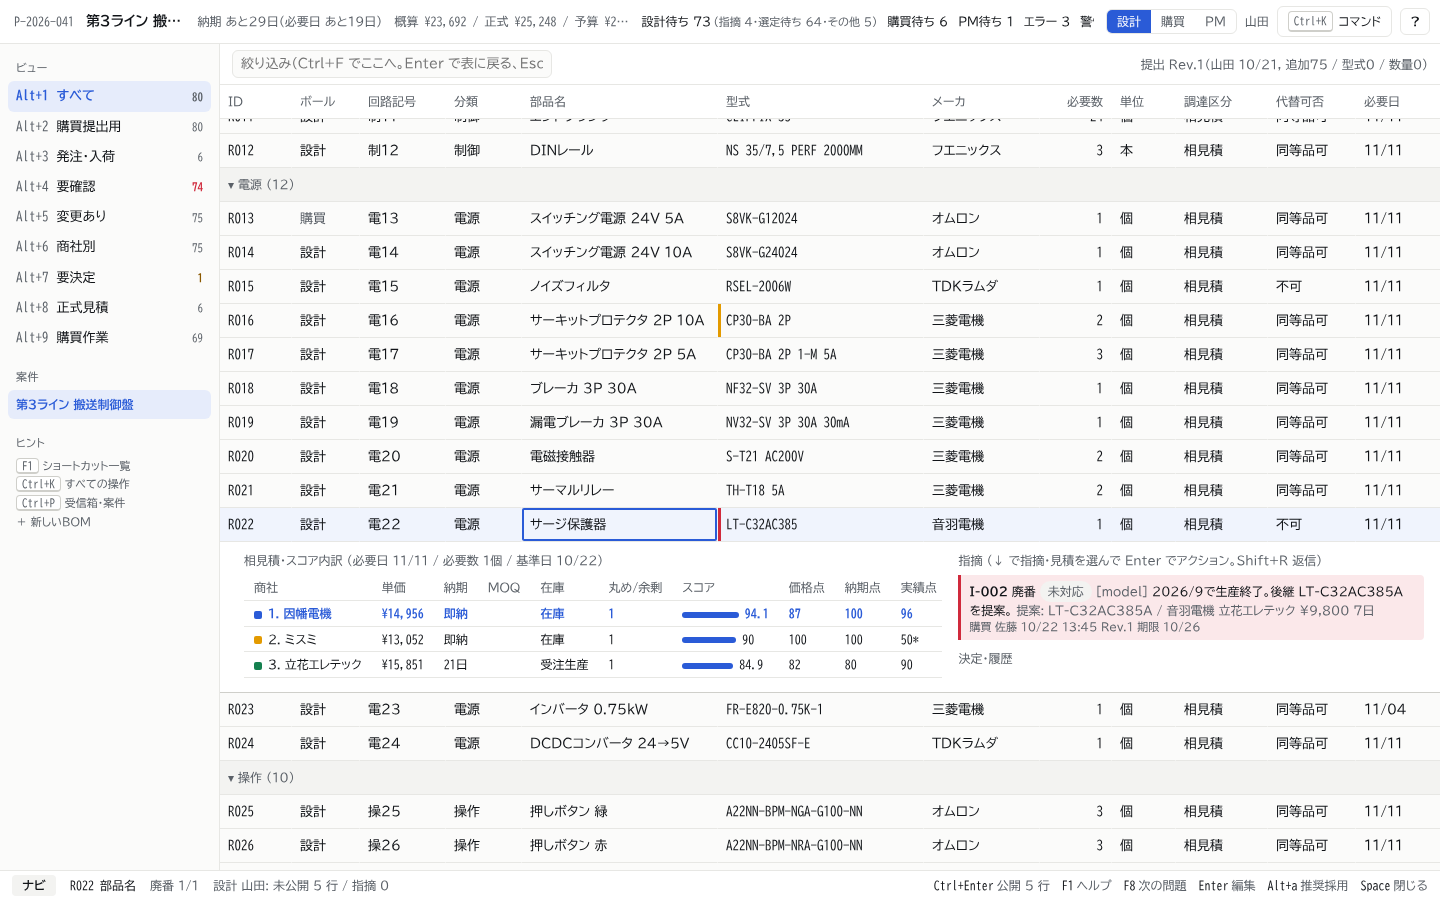
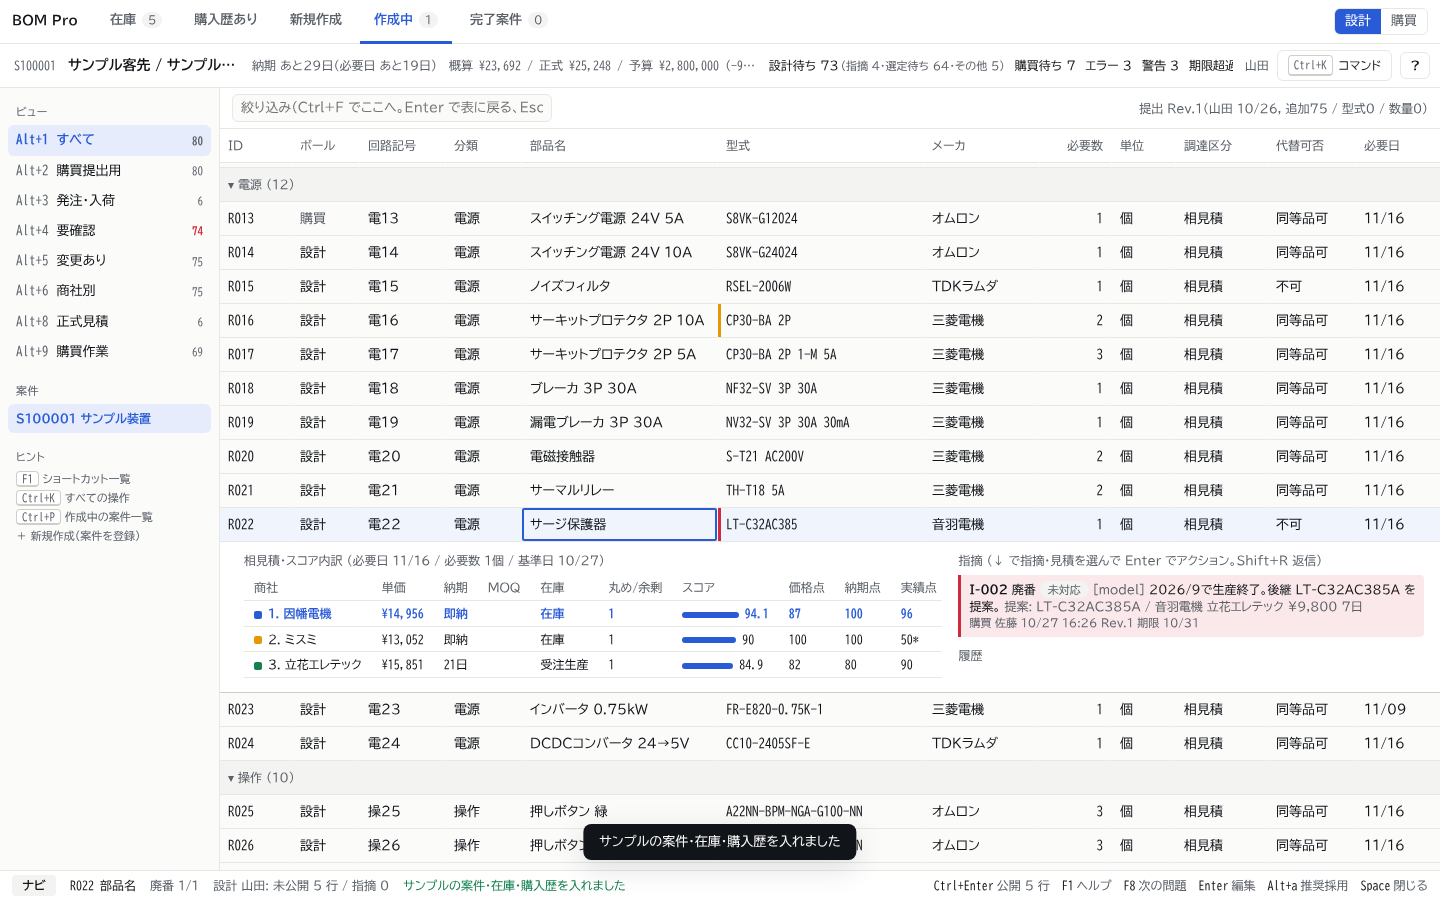
BOMに在庫・購入歴あり・新規作成・作成中・完了案件の画面を追加し、PM を全廃
- 上のタブで 在庫 / 購入歴あり / 新規作成 / 作成中 / 完了案件 を切り替え（空で開始、サンプル投入あり）
- 在庫・購入歴の部品をクリック → 数量 → 作成中の案件番号を選ぶと案件のリストに追加
- 案件登録は番号（A123456 形式）・客先・装置名。完了にすると完了案件へ
- PM の役割・画面・要決定ビュー・承認フロー・案件設定の確定を削除（変更セットは自動承認、納期NG は購買が x で受入）
- 開いた案件はリロードしても復元。E2E / 単体テストを更新、vite.config の型エラーを修正

Claude-Session: https://claude.ai/code/session_01VLU869jRMj6qD9nzBFt6MK

diff --git a/e2e/home.spec.ts b/e2e/home.spec.ts
@@ -1,0 +1,98 @@
+import { test, expect, type Page } from '@playwright/test'
+
+async function fresh(page: Page) {
+  await page.goto('/')
+  await page.evaluate(() => localStorage.clear())
+  await page.goto('/')
+}
+
+async function createProject(page: Page, no: string, customer: string, device: string) {
+  await page.getByTestId('tab-new').click()
+  await page.getByTestId('new-no').fill(no)
+  await page.getByTestId('new-customer').fill(customer)
+  await page.getByTestId('new-device').fill(device)
+  await page.getByTestId('new-submit').click()
+}
+
+test('空で始まり、5 つの画面（在庫・購入歴あり・新規作成・作成中・完了案件）に PM は無い', async ({ page }) => {
+  await fresh(page)
+  await expect(page.getByTestId('screen-active')).toBeVisible()
+  await expect(page.getByTestId('project-empty')).toBeVisible()
+  for (const t of ['stock', 'history', 'new', 'active', 'done']) await expect(page.getByTestId(`tab-${t}`)).toBeVisible()
+  await expect(page.getByTestId('role-design')).toBeVisible()
+  await expect(page.getByTestId('role-purchasing')).toBeVisible()
+  await expect(page.getByTestId('role-pm')).toHaveCount(0)
+  await expect(page.locator('body')).not.toContainText('PM')
+})
+
+test('案件登録は番号（例 A123456）・客先・装置名。形式違反と重複は止まる', async ({ page }) => {
+  await fresh(page)
+  await createProject(page, 'a123456', '〇〇株式会社', '検査装置 1号機')
+  await expect(page.getByTestId('project-A123456')).toContainText('〇〇株式会社')
+  await expect(page.getByTestId('project-A123456')).toContainText('検査装置 1号機')
+  await createProject(page, 'A123456', 'x', 'y')
+  await expect(page.getByTestId('new-error')).toContainText('A123456')
+  await page.getByTestId('new-no').fill('12345')
+  await page.getByTestId('new-submit').click()
+  await expect(page.getByTestId('new-error')).toBeVisible()
+})
+
+test('在庫の部品をクリック → 数量 → 作成中の案件の番号を選ぶと、その案件に追加される', async ({ page }) => {
+  await fresh(page)
+  await createProject(page, 'A123456', '〇〇株式会社', '検査装置 1号機')
+  await page.getByTestId('tab-stock').click()
+  await page.getByTestId('stock-add').click()
+  await page.getByTestId('stock-f-name').fill('リレー')
+  await page.getByTestId('stock-f-model').fill('MY4N-D2')
+  await page.getByTestId('stock-f-maker').fill('オムロン')
+  await page.getByTestId('stock-f-qty').fill('10')
+  await page.getByTestId('stock-save').click()
+  await page.locator('[data-testid^="stock-ST"]').first().click()
+  await page.getByTestId('add-qty').fill('3')
+  await page.getByTestId('add-project-A123456').click()
+  await page.getByTestId('add-submit').click()
+  await expect(page.getByTestId('add-done')).toBeVisible()
+  await page.getByTestId('add-open-project').click()
+  await expect(page.getByTestId('header')).toContainText('A123456')
+  await expect(page.getByTestId('row')).toHaveCount(1)
+  await expect(page.getByTestId('row')).toContainText('MY4N-D2')
+  // 在庫の画面に戻ると引当が出る
+  await page.getByTestId('tab-stock').click()
+  await expect(page.getByTestId('stock-table')).toContainText('3')
+})
+
+test('購入歴あり: サンプルの履歴から数量を決めて作成中の案件に追加できる', async ({ page }) => {
+  await fresh(page)
+  await page.getByTestId('add-sample').click()
+  await page.getByTestId('tab-history').click()
+  await expect(page.getByTestId('history-table')).toBeVisible()
+  await page.locator('[data-testid="history-table"] tbody tr').first().click()
+  await page.getByTestId('add-qty').fill('2')
+  await page.locator('[data-testid^="add-project-"]').first().click()
+  await page.getByTestId('add-submit').click()
+  await expect(page.getByTestId('add-done')).toBeVisible()
+})
+
+test('完了にすると完了案件へ移り、作成中に戻せる', async ({ page }) => {
+  await fresh(page)
+  await createProject(page, 'B000001', '△△工業', '組立機')
+  await page.getByTestId('complete-B000001').click()
+  await expect(page.getByTestId('project-B000001')).toHaveCount(0)
+  await page.getByTestId('tab-done').click()
+  await expect(page.getByTestId('project-B000001')).toBeVisible()
+  await page.getByTestId('reopen-B000001').click()
+  await page.getByTestId('tab-active').click()
+  await expect(page.getByTestId('project-B000001')).toBeVisible()
+})
+
+test('開いた案件はリロードしても同じ案件から続けられ、一覧へ戻れる', async ({ page }) => {
+  await fresh(page)
+  await createProject(page, 'C000001', '□□', '搬送機')
+  await page.getByTestId('open-C000001').click()
+  await expect(page.getByTestId('header')).toContainText('C000001')
+  await page.waitForTimeout(500)
+  await page.reload()
+  await expect(page.getByTestId('header')).toContainText('C000001')
+  await page.getByTestId('tab-active').click()
+  await expect(page.getByTestId('screen-active')).toBeVisible()
+})

diff --git a/src/model/store.ts b/src/model/store.ts
@@ -336,7 +336,7 @@ export function userKey(u: User): string {
 }
 
 // ---------- 画面の状態（タブごと。リロードしても同じビュー・セル・ガイドの途中から） ----------
-type UiSaved = Pick<State, 'view' | 'cursorRow' | 'cursorCol' | 'sort' | 'hiddenCols' | 'recentCommands'>
+type UiSaved = Pick<State, 'view' | 'cursorRow' | 'cursorCol' | 'sort' | 'hiddenCols' | 'recentCommands' | 'screen'>
 function readUi(): Partial<UiSaved> {
   try {
     return JSON.parse(sessionStorage.getItem(UI_KEY) ?? '{}') ?? {}
@@ -356,6 +356,13 @@ function loadUiField<K extends 'recentCommands'>(k: K): UiSaved[K] | undefined {
   return readUi()[k] as UiSaved[K] | undefined
 }
 let uiTimer: number | undefined
+// リロードしても同じ画面（開いていた案件・在庫など）から。案件が無ければ作成中の一覧
+{
+  const sc = readUi().screen
+  const st0 = useStore.getState()
+  if (sc && ['stock', 'history', 'new', 'active', 'done'].includes(sc)) useStore.setState({ screen: sc })
+  else if (sc === 'project' && st0.ws.projects.some((x) => x.id === st0.ws.currentProjectId)) useStore.setState({ screen: 'project' })
+}
 // 指定先のチェックに使う商社マスタ
 setSupplierMaster(useStore.getState().ws.suppliers)
 // 読み込んだデータの状態・フラグを今の規則で整え直す（取引停止にした商社・前の版で残った印。保存は次の操作のとき）
@@ -371,16 +378,16 @@ useStore.subscribe((s, prev) => {
   if (s.ws.suppliers !== prev.ws.suppliers) setSupplierMaster(s.ws.suppliers)
 })
 useStore.subscribe((s, prev) => {
-  if (s.view === prev.view && s.cursorRow === prev.cursorRow && s.cursorCol === prev.cursorCol && s.sort === prev.sort && s.hiddenCols === prev.hiddenCols && s.recentCommands === prev.recentCommands && s.panel === prev.panel) return
-  window.clearTimeout(uiTimer)
-  uiTimer = window.setTimeout(writeUi, 200)
+  if (s.view === prev.view && s.cursorRow === prev.cursorRow && s.cursorCol === prev.cursorCol && s.sort === prev.sort && s.hiddenCols === prev.hiddenCols && s.recentCommands === prev.recentCommands && s.screen === prev.screen && s.panel === prev.panel) return
+  clearTimeout(uiTimer)
+  uiTimer = setTimeout(writeUi, 200) as unknown as number
 })
 function writeUi() {
-  window.clearTimeout(uiTimer)
+  clearTimeout(uiTimer)
   {
     const st = useStore.getState()
     // ガイドを開いている間は、入れている途中の内容も下書きとして残す
-    const saved: UiSaved = { view: st.view, cursorRow: st.cursorRow, cursorCol: st.cursorCol, sort: st.sort, hiddenCols: st.hiddenCols, recentCommands: st.recentCommands }
+    const saved: UiSaved = { view: st.view, cursorRow: st.cursorRow, cursorCol: st.cursorCol, sort: st.sort, hiddenCols: st.hiddenCols, recentCommands: st.recentCommands, screen: st.screen }
     try {
       sessionStorage.setItem(UI_KEY, JSON.stringify(saved))
     } catch {

diff --git a/src/ui/Side.tsx b/src/ui/Side.tsx
@@ -21,17 +21,17 @@ export function Side({ vm }: { vm: ViewModel }) {
         )
       })}
       <h3 style={{ marginTop: 16 }}>案件</h3>
-      {st.ws.projects.map((p) => (
+      {st.ws.projects.filter((p) => !p.completed || p.id === st.ws.currentProjectId).map((p) => (
         <div key={p.id} className="view" aria-current={p.id === st.ws.currentProjectId} onClick={() => { if (!commitEdit('stay')) return; st.commitWs('', (ws) => { ws.currentProjectId = p.id }); st.set({ cursorRow: null, filter: '', cellFilter: null, openRows: [] }) }}>
-          <span style={{ fontSize: 12 }}>{p.name}</span>
+          <span style={{ fontSize: 12 }} title={`${p.customer} ${p.name}`.trim()}>{p.id} {p.name}</span>
         </div>
       ))}
       <h3 style={{ marginTop: 16 }}>ヒント</h3>
       <div className="muted" style={{ fontSize: 11, padding: '0 8px', lineHeight: 1.7 }}>
         <span className="clickable" onClick={() => runCommand('help')}><kbd>F1</kbd> ショートカット一覧</span><br />
         <span className="clickable" onClick={() => runCommand('palette.open')}><kbd>Ctrl+K</kbd> すべての操作</span><br />
-        <span className="clickable" onClick={() => runCommand('project.switch')}><kbd>Ctrl+P</kbd> 受信箱・案件</span><br />
-        <span className="clickable" onClick={() => runCommand('project.new')}>＋ 新しいBOM</span>
+        <span className="clickable" onClick={() => runCommand('project.switch')}><kbd>Ctrl+P</kbd> 作成中の案件一覧</span><br />
+        <span className="clickable" onClick={() => runCommand('project.new')}>＋ 新規作成（案件を登録）</span>
       </div>
     </nav>
   )

diff --git a/src/ui/Home.tsx b/src/ui/Home.tsx
@@ -7,7 +7,7 @@ import { addSampleTo } from '@/model/sample'
 import { isActive } from '@/model/derive'
 import * as stock from '@/actions/stock'
 import type { PurchaseEntry } from '@/actions/stock'
-import { ensureCursor, setView, switchRole } from '@/commands/registry'
+import { switchRole } from '@/commands/registry'
 
 const st = () => useStore.getState()
 
@@ -21,9 +21,7 @@ export function openProject(id: string) {
   st().commitWs('', (ws) => {
     ws.currentProjectId = id
   })
-  useStore.setState({ screen: 'project', cursorRow: null, filter: '', cellFilter: null, openRows: [], panel: null, mode: 'nav' })
-  setView(1)
-  ensureCursor()
+  useStore.setState({ screen: 'project', view: 1, detailIndex: 0, revView: null, sort: null, cursorRow: null, filter: '', cellFilter: null, openRows: [], panel: null, mode: 'nav' })
 }
 
 const TABS: Array<{ id: Screen; label: string }> = [
@@ -53,11 +51,6 @@ export function TopNav() {
         )
       })}
       <span className="grow" />
-      {s.screen === 'project' && cur && (
-        <span className="crumb" title="いま開いている案件">
-          {cur.id}　{cur.customer}　{cur.name}
-        </span>
-      )}
       <span className="role" title="役割（ログイン）">
         {ROLES.map((r) => (
           <button key={r} tabIndex={-1} aria-pressed={user.role === r} onClick={() => user.role !== r && switchRole(r)} data-testid={`role-${r}`}>

diff --git a/src/ui/Panels.tsx b/src/ui/Panels.tsx
@@ -154,21 +154,6 @@ function PanelBody({ panel }: { panel: Panel }) {
                   </div>
                 ))}
               </section>
-              <section>
-                <h4>新規BOMガイド</h4>
-                {[
-                  ['Enter', '次へ（貼り付け欄の中は Ctrl+Enter）'],
-                  ['Alt+ArrowLeft', '1 つ前の段階'],
-                  ['Escape', '中止（入れた内容は残る）'],
-                ].map(([k, l]) => (
-                  <div className="r" key={k + l}>
-                    <span>{l}</span>
-                    <span className="ks">
-                      <kbd>{formatKey(k)}</kbd>
-                    </span>
-                  </div>
-                ))}
-              </section>
             </div>
           </div>
           <Foot items={[['Escape', '閉じる']]} />

diff --git a/vite.config.ts b/vite.config.ts
@@ -1,4 +1,4 @@
-import { defineConfig } from 'vite'
+import { defineConfig } from 'vitest/config'
 import react from '@vitejs/plugin-react'
 import { fileURLToPath, URL } from 'node:url'
 

diff --git a/README.md b/README.md
@@ -1,10 +1,12 @@
 # BOM Pro — キーボード完結の BOM → 相見積 → 商社選定 → 正式見積
 
 設計がBOMを作り、購買が相見積を取り、スコアの高い商社を選び、正式見積を依頼するまでを **同じ1つの表** の上で回すツールです。
-購買の指摘で設計が直すコスト、設計・購買・PM の意思疎通による手戻りをゼロにすることを目標にしています。
+購買の指摘で設計が直すコスト、設計と購買の意思疎通による手戻りをゼロにすることを目標にしています。
+
+> 流れの設計書（`docs/flow-design.md` など）は PM のいた版の記録です。現在のアプリに PM（役割・画面・承認）はありません。
 
 - 仕様（キーボード）: `docs/keyboard-spec-v0.1.md` ＋ `docs/flow-design.md` §14 の差分（v0.2）
-- 流れの設計: `docs/flow-design.md`（v4.1。購買・電気設計・PM の3者レビューを5ラウンド回して手戻り0・あいまい0で PASS）
+- 流れの設計: `docs/flow-design.md`（v4.1。PM のいた版の記録）
 - レビューの記録: `docs/review-loop/round1〜5-*.md`
 
 ## 動かす
@@ -26,32 +28,46 @@ VITE_SYNC_URL=http://localhost:8787 npm run dev
 
 無い場合はブラウザ単体（localStorage）で動き、`Ctrl+K → JSON を書き出す / 読み込む` で受け渡しできます。
 
+## 画面
+
+最初は空の状態で始まります（`作成中` の画面の「サンプルを入れる」で試せます）。上のタブで画面を切り替えます。
+
+| 画面 | できること |
+| --- | --- |
+| 在庫 | 在庫の部品（部品名・型式・メーカー・数・置き場所）を登録・Excel から貼り付け。部品をクリック → 数量 → 作成中の案件の番号を選ぶと、その案件のリストに追加（在庫の「引当」「残り」も出る） |
+| 購入歴あり | 過去に購入した部品（発注・入荷した行と、貼り付けで登録した履歴）。部品をクリック → 数量 → 案件を選ぶと、前回の購入先・単価を備考に付けて追加 |
+| 新規作成 | 案件番号（例 `A123456`）・客先・装置名を登録 |
+| 作成中 | 作成中の案件の一覧。開く / 完了にする / 削除 |
+| 完了案件 | 完了にした案件。開く / 作成中に戻す |
+
+案件を開くと、いつもの 1 つの表（設計 → 購買 → 商社選定 → 正式見積）になります。上の `作成中` タブか `Ctrl+P` で一覧に戻れます。
+
 ## 最初の 2 分
 
 | やること | キー |
 | --- | --- |
 | 迷ったら | `Ctrl+K`（名前で操作を探す。`R034 採用` のように文でも打てる） |
 | ショートカット一覧 | `?` |
-| ビュー切替 | `1`〜`9`（4 要確認 / 5 変更あり / 7 要決定 / 9 購買作業） |
+| ビュー切替 | `1`〜`9`（4 要確認 / 5 変更あり / 9 購買作業） |
 | 次の問題へ | `n`、その場で直す `Ctrl+.`、確認済み `x` |
 | 行を開く（相見積・スコア内訳・指摘・履歴） | `Space` |
 | 採用 | `a` 推奨（最高スコア）/ `Shift+A` 選ぶ / `Alt+A` 最安 |
 | 指摘を起票（購買） | `Shift+I` → 頭文字（k 型式あいまい / m メーカ未記入 / d 廃番 …）→ 本文 → `Enter` |
 | 公開（提出・指摘の発行） | `Ctrl+Enter` |
-| 要決定（PM） | `y` 承認 / `Shift+Y` 却下 / `Enter` 決定パネル |
+| 納期NG（購買） | `x` 承知で進める（受入） |
 | Excel 出力 / 書式つきコピー | `Ctrl+E` / `Ctrl+Shift+C` |
 | 元に戻す | `Ctrl+Z`（自分の操作だけ） |
 
-役割（設計 / 購買 / PM）はヘッダー右のボタンか `Ctrl+K → 役割を切り替え` で変えられます。役割外の列は書けません。
+役割（設計 / 購買）は画面右上のボタンか `Ctrl+K → 役割を切り替え` で変えられます。役割外の列は書けません。
 
 ## 構成
 
 ```
 src/keys/keymap.ts      キー定義表（1か所）。ヘルプ・パレット・ステータスバーはここから生成
 src/model/              型・状態遷移（lifecycle）・スコア・チェックルール・ビュー・列・導出（ボール/期限）
-src/actions/            行・公開 / 指摘 / 採用 / PM 決定・案件設定 / 見積依頼・取込
+src/actions/            行・公開 / 指摘 / 採用 / 案件（登録・完了）・在庫・購入歴 / 案件設定 / 見積依頼・取込
 src/commands/registry   すべての操作とパレット、キー処理
-src/ui/                 画面（ヘッダー・ビュー一覧・表・行の詳細・ステータスバー・パネル）
+src/ui/                 画面（上のタブ・在庫・購入歴・案件一覧／ヘッダー・ビュー一覧・表・行の詳細・ステータスバー・パネル）
 src/io/                 Excel（exceljs）・保存と共有ストア
 sync/server.mjs         共有ストア
 e2e/                    Playwright（キーボードだけで流れを通す）
